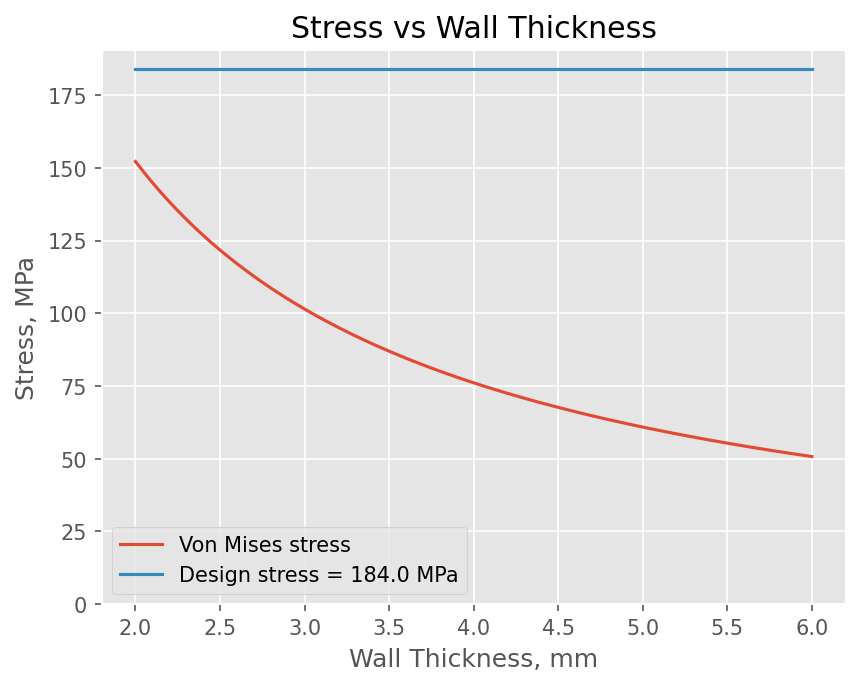
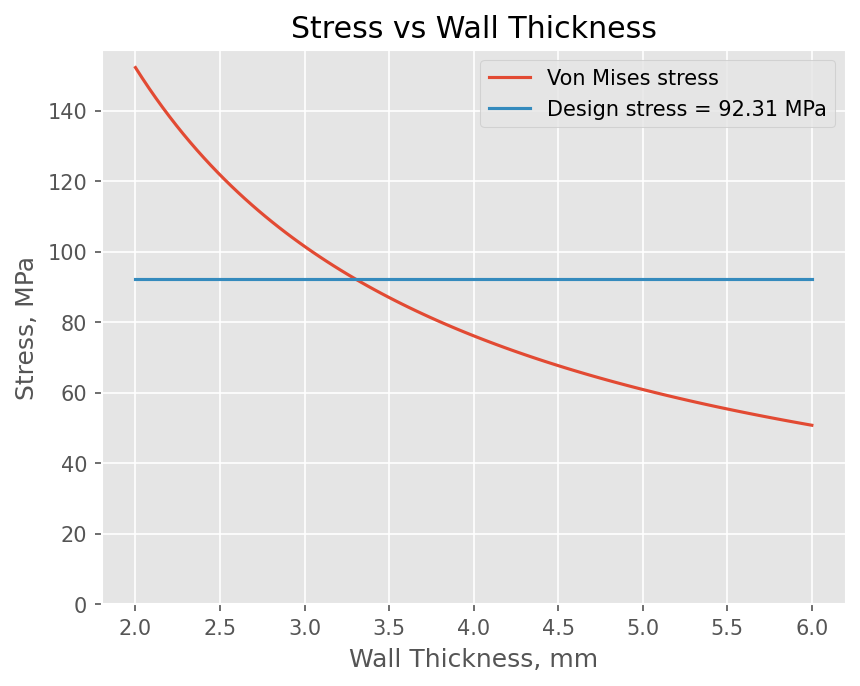
Bolt tear-out

diff --git a/Simulation/bolt_tearout.py b/Simulation/bolt_tearout.py
@@ -1,0 +1,62 @@
+import numpy as np
+import matplotlib.pyplot as plt
+plt.style.use('ggplot')
+
+# ── Inputs ─────────────────────────────────────────────────────────────────────
+P           = 7.03e6    # Internal pressure, Pa
+tank_id     = 94.0e-3   # Tank inner diameter, m
+n_bolts     = 6         # Number of bolts sharing the load
+bolt_d      = 6.0e-3    # Bolt / hole diameter, m
+t           = 4.0e-3    # Plate thickness, m
+e_min       = 5.0e-3    # Min edge distance (hole centre to edge), m
+e_max       = 16.0e-3   # Max edge distance, m
+npoints     = 200
+
+sigmaY      = 276e6     # Yield strength of plate material, Pa  (Al 6061-T6)
+sigmaY_bolt = 640e6     # Yield strength of bolt material, Pa   (Grade 8.8 steel)
+SF          = 1.3       # Safety factor
+
+# ── Derived ────────────────────────────────────────────────────────────────────
+F_applied   = P * np.pi * (tank_id / 2)**2 # Total axial load from pressure, N
+F_per_bolt  = F_applied / n_bolts          # Load per bolt, N
+F_design    = F_per_bolt * SF              # Required strength per bolt, N
+tauY_plate  = sigmaY      / np.sqrt(3)     # Plate shear yield strength, Pa
+tauY_bolt   = sigmaY_bolt / np.sqrt(3)     # Bolt  shear yield strength, Pa
+
+# Bolt shear strength (single shear — one shear plane across bolt cross-section)
+A_bolt      = np.pi * (bolt_d / 2) ** 2   # Bolt cross-section area, m^2
+F_bolt_shear = tauY_bolt * A_bolt          # Bolt shear strength, N
+
+# ── Sweep edge distance ────────────────────────────────────────────────────────
+es           = np.linspace(e_min, e_max, npoints)
+A_tearout    = 2 * t * (es - bolt_d / 2)  # Shear-out area (two shear planes), m^2
+F_tearout    = tauY_plate * A_tearout      # Plate tearout strength, N
+
+# Minimum edge distance for tearout to meet design load
+e_required = bolt_d / 2 + F_design / (2 * t * tauY_plate)
+
+SF_shear_actual = F_bolt_shear / F_per_bolt
+
+print(f"Load per bolt        : {F_per_bolt:.1f} N")
+print(f"Min edge distance    : {e_required*1e3:.2f} mm  (tearout, at SF={SF})")
+print(f"  (hole centre to edge, bolt d={bolt_d*1e3:.1f} mm, t={t*1e3:.1f} mm)")
+print(f"Bolt shear SF        : {SF_shear_actual:.2f}  ({'OK' if SF_shear_actual >= SF else 'FAIL'})")
+
+# ── Plot ───────────────────────────────────────────────────────────────────────
+plt.figure()
+plt.title("Bolt Joint Strength vs Edge Distance")
+plt.plot(es * 1e3, F_tearout, label="Plate tearout strength", color='tab:blue', lw=2)
+plt.axhline(F_bolt_shear, color='tab:orange', lw=2,
+            label=f"Bolt shear strength = {F_bolt_shear:.0f} N  (SF={SF_shear_actual:.2f})")
+plt.axhline(F_design, color='tab:red', lw=1.5, ls='--',
+            label=f"Required (F/bolt × SF{SF} = {F_design:.0f} N)")
+if e_min < e_required < e_max:
+    plt.axvline(e_required * 1e3, color='gray', lw=1.2, ls=':',
+                label=f"Min edge dist = {e_required*1e3:.2f} mm")
+plt.xlabel("Edge distance, mm  (hole centre to plate edge)")
+plt.ylabel("Force per bolt, N")
+plt.ylim(bottom=0)
+plt.legend()
+plt.tight_layout()
+plt.savefig("bolt_tearout.png", dpi=150, bbox_inches='tight')
+plt.show()

diff --git a/Documentation Vault/02-Design/01-Propulsion System/02-Propellant Tank.md b/Documentation Vault/02-Design/01-Propulsion System/02-Propellant Tank.md
@@ -30,3 +30,7 @@ VM: Von Mises
 Given that the machining constraints would limit the wall thickness of the tank to > 2mm, and at 3.0 mm machining would not be required, as it is a standard tube thickness. Hence, a tube thickness of 3.0 mm was chosen.
 
 ## Bolt Tear-Out
+
+6x M6 bolts:
+
+![A:\Projects\Rockets\Liquid\bolt_tearout.png](file:///a%3A/Projects/Rockets/Liquid/bolt_tearout.png)